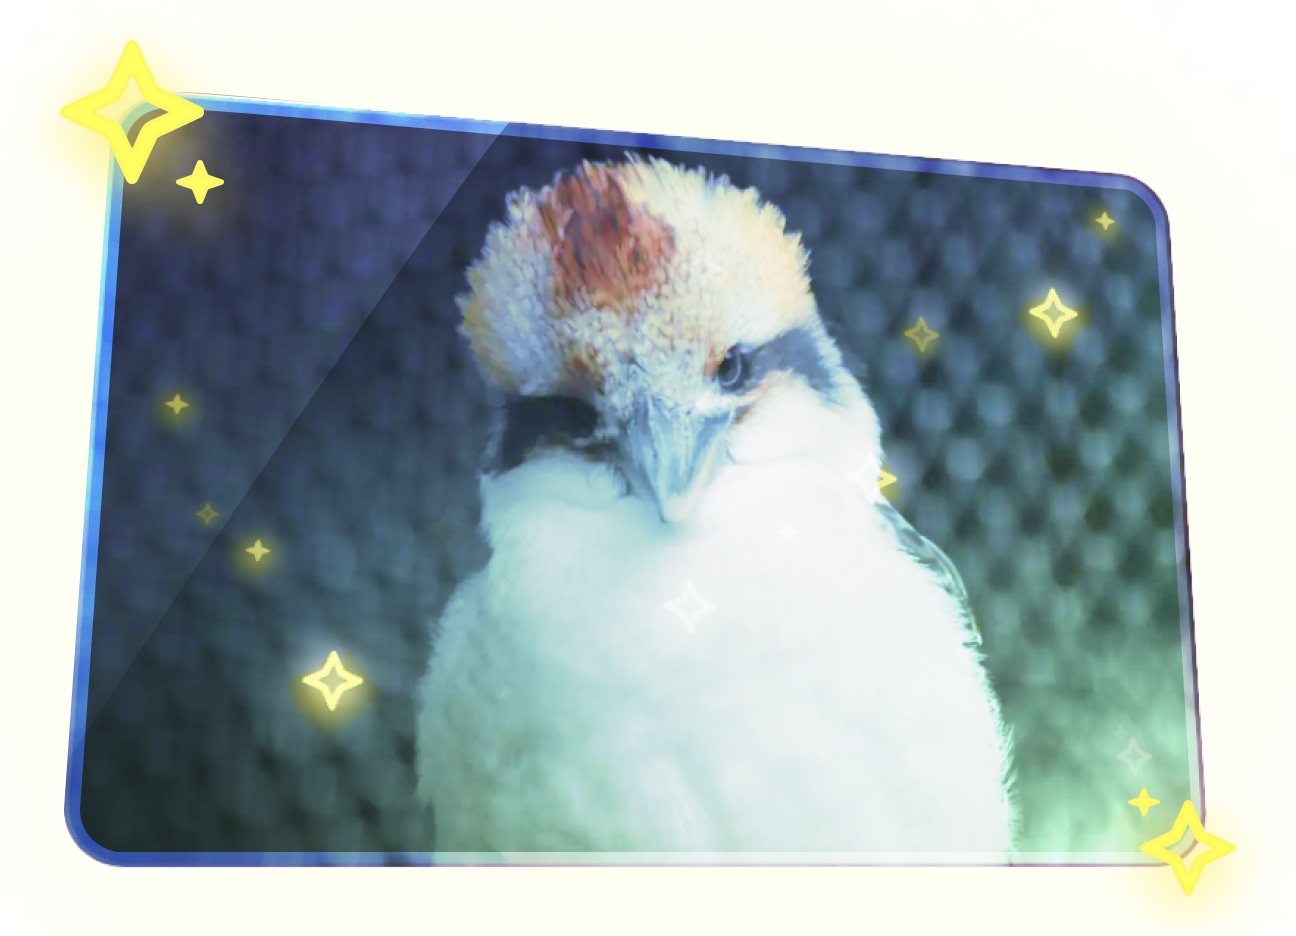
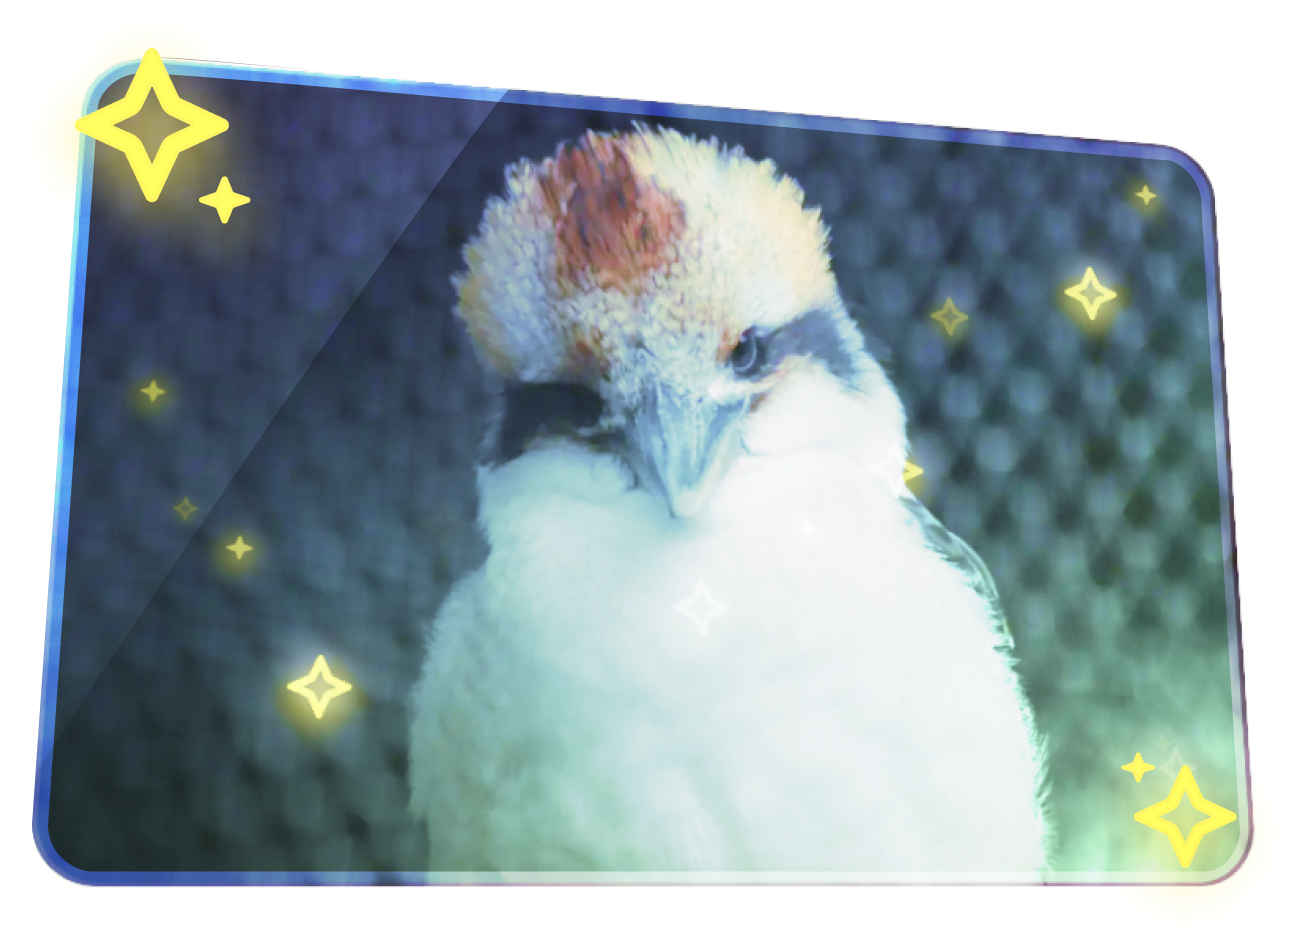
画像差し替えと文言アップデート。定数の更新

Changed region(s): [[0.0, 0.031, 0.9877, 0.9915], [0.1235, 0.4957, 0.216, 0.6197], [0.3395, 0.6197, 0.3704, 0.6506]]

diff --git a/src/app/page.tsx b/src/app/page.tsx
@@ -17,7 +17,7 @@ export default async function Home() {
           <SVGIcon svg={Logo} className="w-[260px] max-sm:w-[180px]" />
         </h1>
         <h2 className="font-bold text-typography-md font-zenMaruGothic text-primary-900 mt-3 -mr-4 max-sm:text-typography-sm max-sm:font-bold max-sm:-mr-3">
-          鳥を愛でて、心ほっこり。
+          鳥さん愛でて、心ほっこり。
         </h2>
         <PillButton className="mt-6" colorTheme={"secondary"} asChild>
           <Link href={"/about"}>トリメデとは？</Link>

diff --git a/src/app/api/og/route.tsx b/src/app/api/og/route.tsx
@@ -75,7 +75,7 @@ export async function GET(req: Request) {
             backgroundColor: "#F0F0F0",
             width: "100%",
             height: "100%",
-            display: "flex", // ここで display: flex を指定
+            display: "flex",
           }}
         >
           <div

diff --git a/src/lib/constants/limits.ts b/src/lib/constants/limits.ts
@@ -1,4 +1,4 @@
 // 1日あたりの最大投稿数
-export const MAX_DAILY_POSTS = 10;
+export const MAX_DAILY_POSTS = 20;
 // きら投稿の表示条件メデ数の閾値
-export const KIRA_POST_MEDE_COUNT_THRESHOLD = 150;
+export const KIRA_POST_MEDE_COUNT_THRESHOLD = 100;
